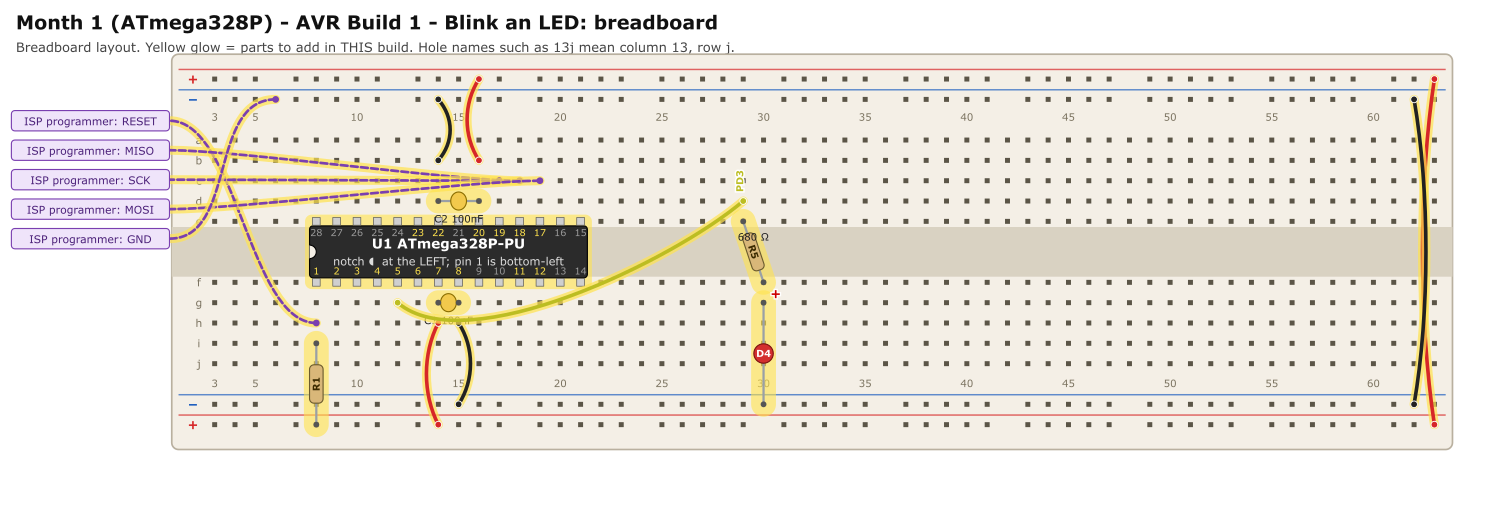
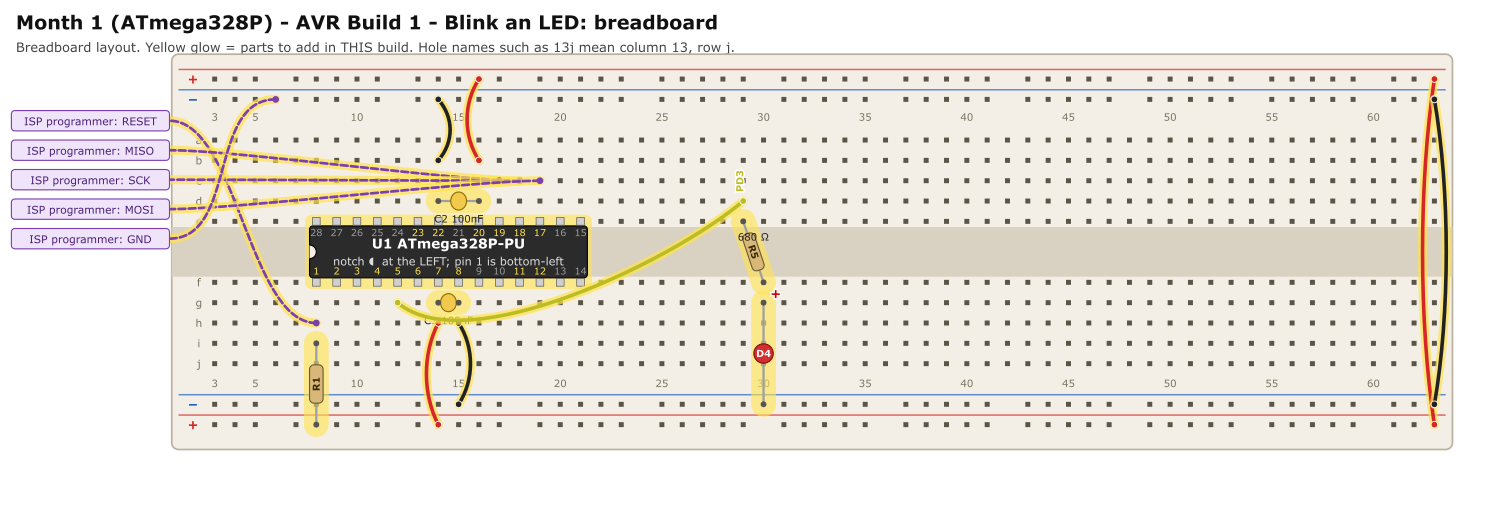
Move Power rail Connectors on AVR Build

Changed region(s): [[0.92, 0.1864, 0.9813, 0.7767]]

diff --git a/maintainer/tools/circuits/month_01.py b/maintainer/tools/circuits/month_01.py
@@ -42,7 +42,7 @@ def month_01_avr():
 
     b = Board(c)
     b.ic("U1", 8, 1)
-    b.wire("TP63", "BP63", 1, "+5V"); b.wire("TN62", "BN62", 1, "GND")
+    b.wire("TP63", "BP63", 1, "+5V"); b.wire("TN63", "BN63", 1, "GND")
     b.wire("14h", "BP14", 1, "+5V"); b.wire("15h", "BN15", 1, "GND"); b.two("C1", "14g", "15g", 1)
     b.wire("16b", "TP16", 1, "+5V"); b.wire("14b", "TN14", 1, "GND"); b.two("C2", "16d", "14d", 1)
     b.two("R1", "8i", "BP8", 1)

diff --git a/month-01-electronic-dice/month-01-avr-build-1-blink.md b/month-01-electronic-dice/month-01-avr-build-1-blink.md
@@ -35,7 +35,7 @@ The ground symbol is the **GND** rail and the **+5 V** bar is the supply rail.
 | ---: | -------------------------- | :-----: | ---------------------------------------------------------------------------------------------------------------------------------------------------------- | ------------------------------------------------------------------------------------------------ |
 |    1 | U1 ATmega328P-PU           |    1    | Pin 1 in hole **8f**, notch to the **left** (towards the lower column numbers). Pins 1–14 run along row f (columns 8–21); pins 15–28 run back along row e. | Skinny (300 mil) chip: one row of pins each side of the centre channel (rows e and f).           |
 |    2 | jumper wire                |    –    | top **red** rail (+), near column 63 → bottom **red** rail (+), near column 63                                                                             | +5 V power (red) After placing it, **check the power**: measure across the rails with the meter. |
-|    3 | jumper wire                |    –    | top **blue** rail (−), near column 62 → bottom **blue** rail (−), near column 62                                                                           | ground (black) After placing it, **check the power**: measure across the rails with the meter.   |
+|    3 | jumper wire                |    –    | top **blue** rail (−), near column 63 → bottom **blue** rail (−), near column 63                                                                           | ground (black) After placing it, **check the power**: measure across the rails with the meter.   |
 |    4 | jumper wire                |    7    | **14h** → bottom **red** rail (+), near column 14                                                                                                          | +5 V power (red)                                                                                 |
 |    5 | jumper wire                |    8    | **15h** → bottom **blue** rail (−), near column 15                                                                                                         | ground (black)                                                                                   |
 |    6 | C1 100nF capacitor         |  7 / 8  | **14g** and **15g**                                                                                                                                        | ceramic: either way round; keep the legs short                                                   |
